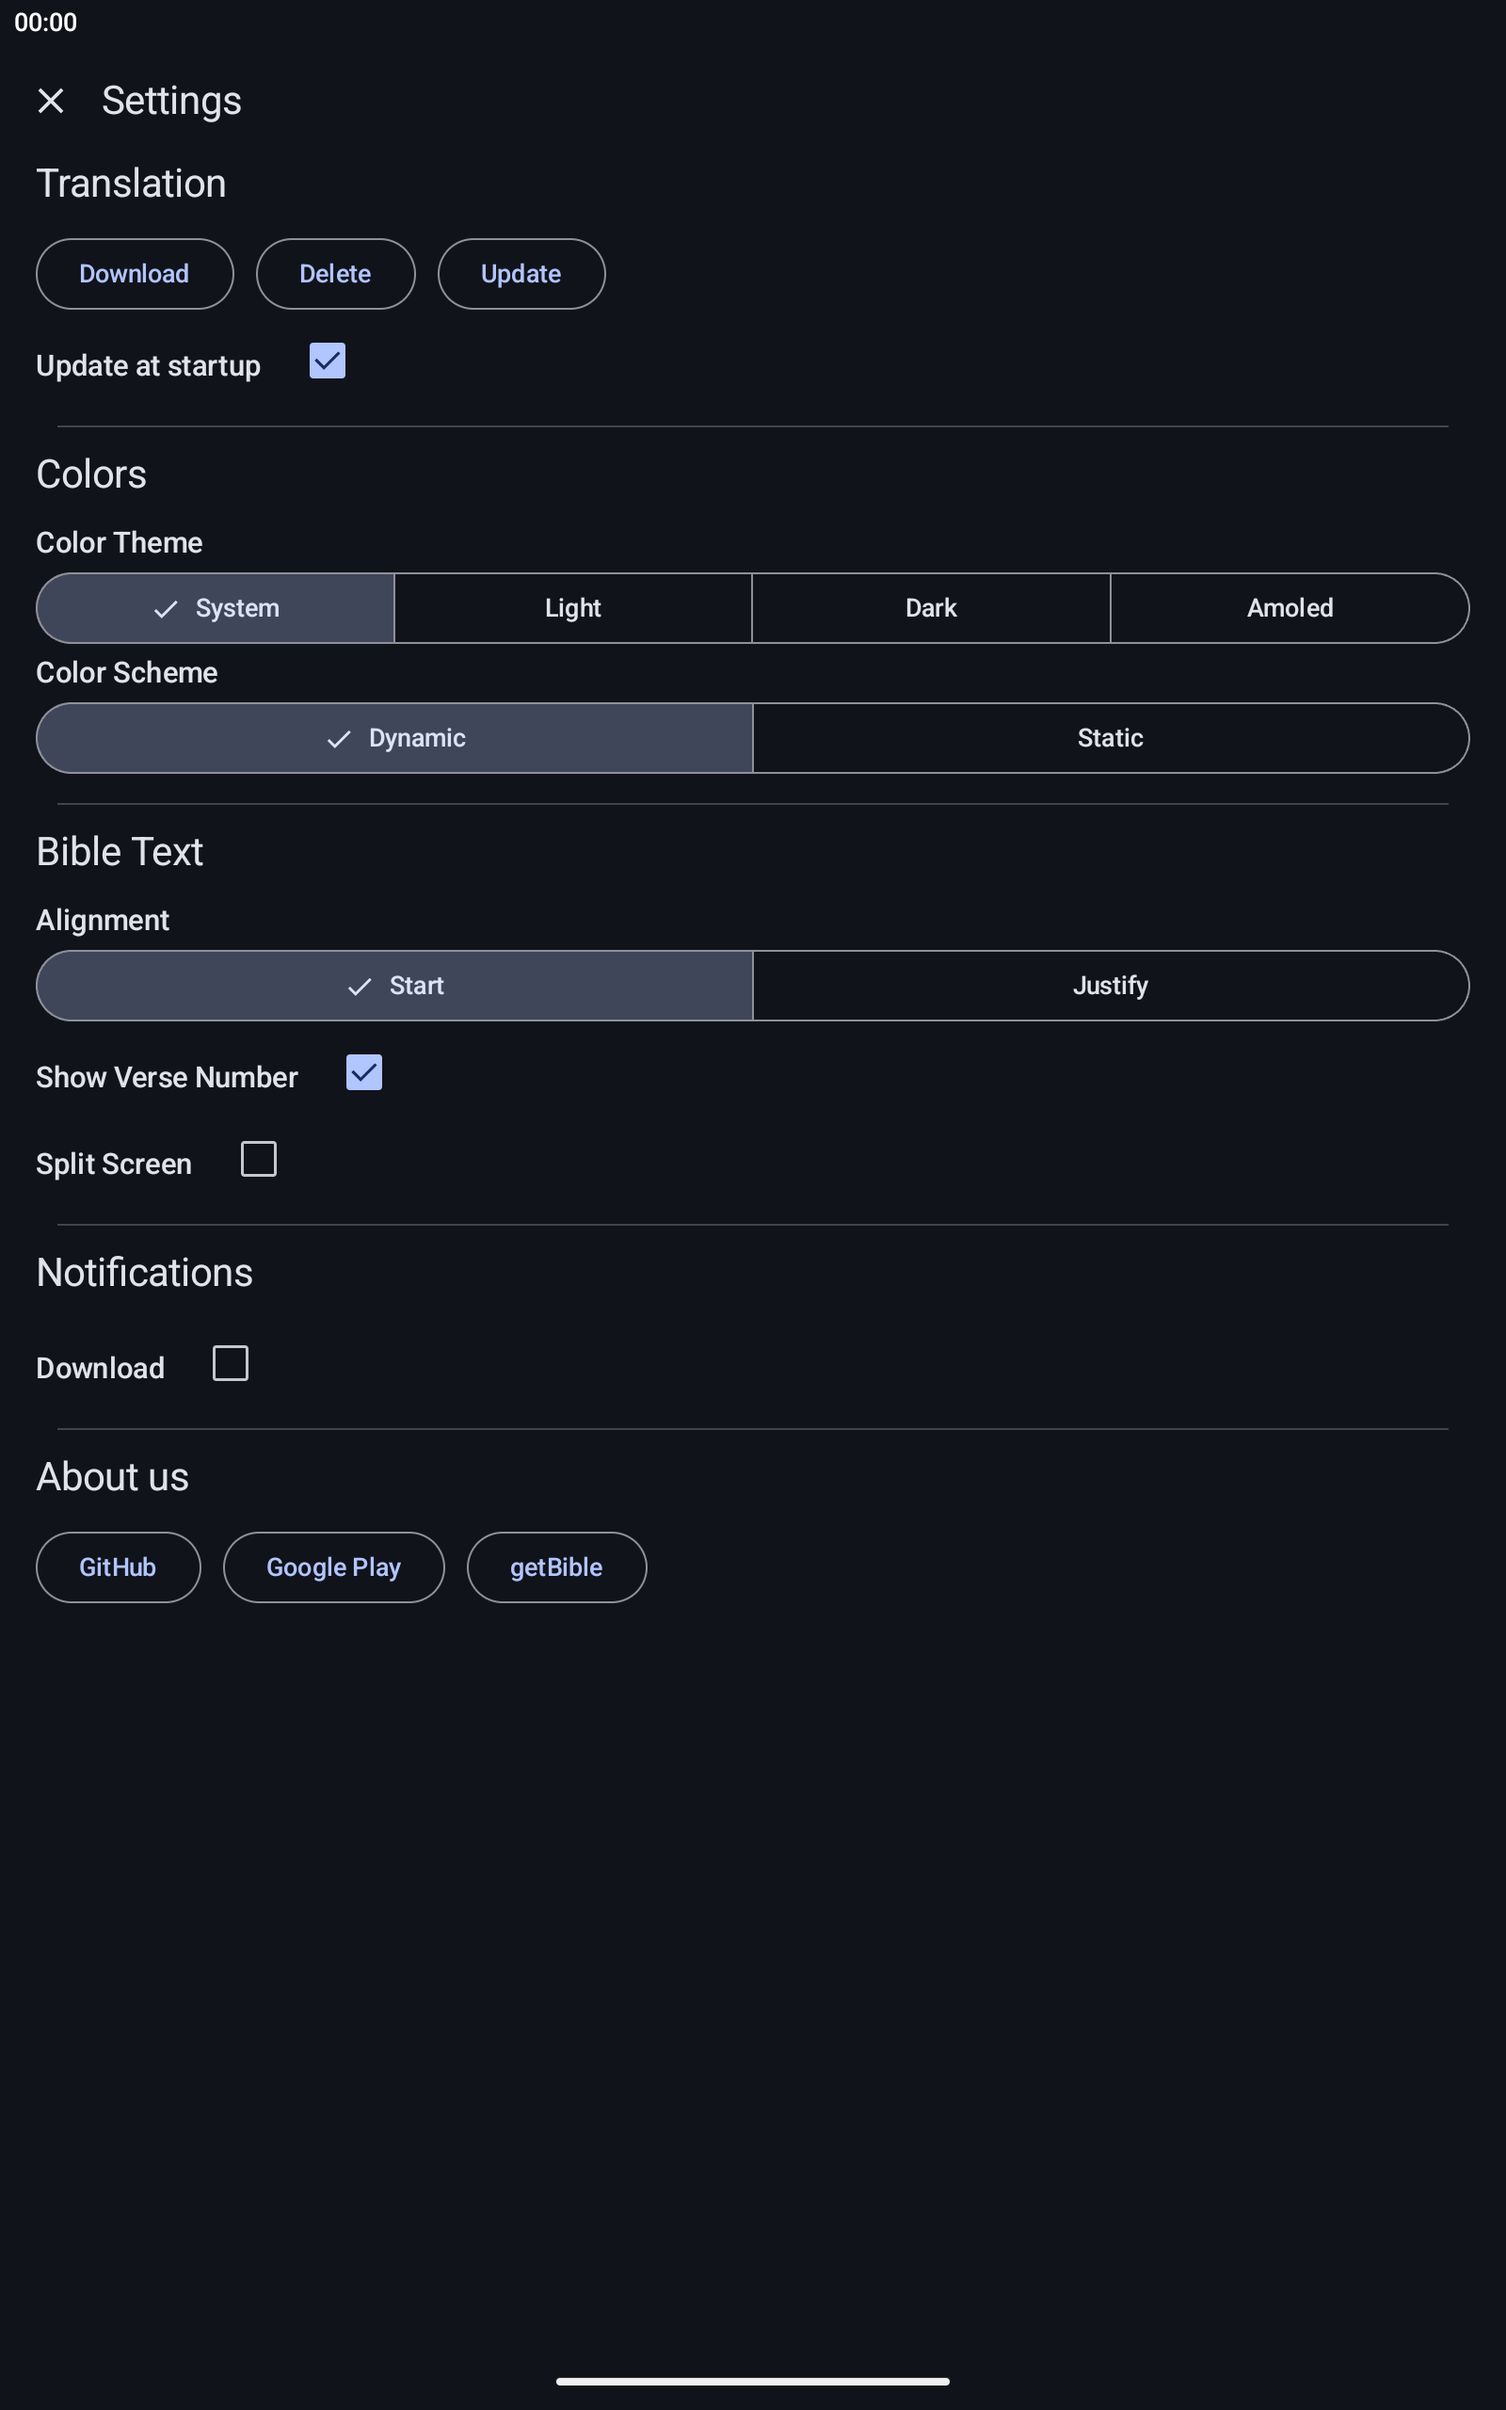
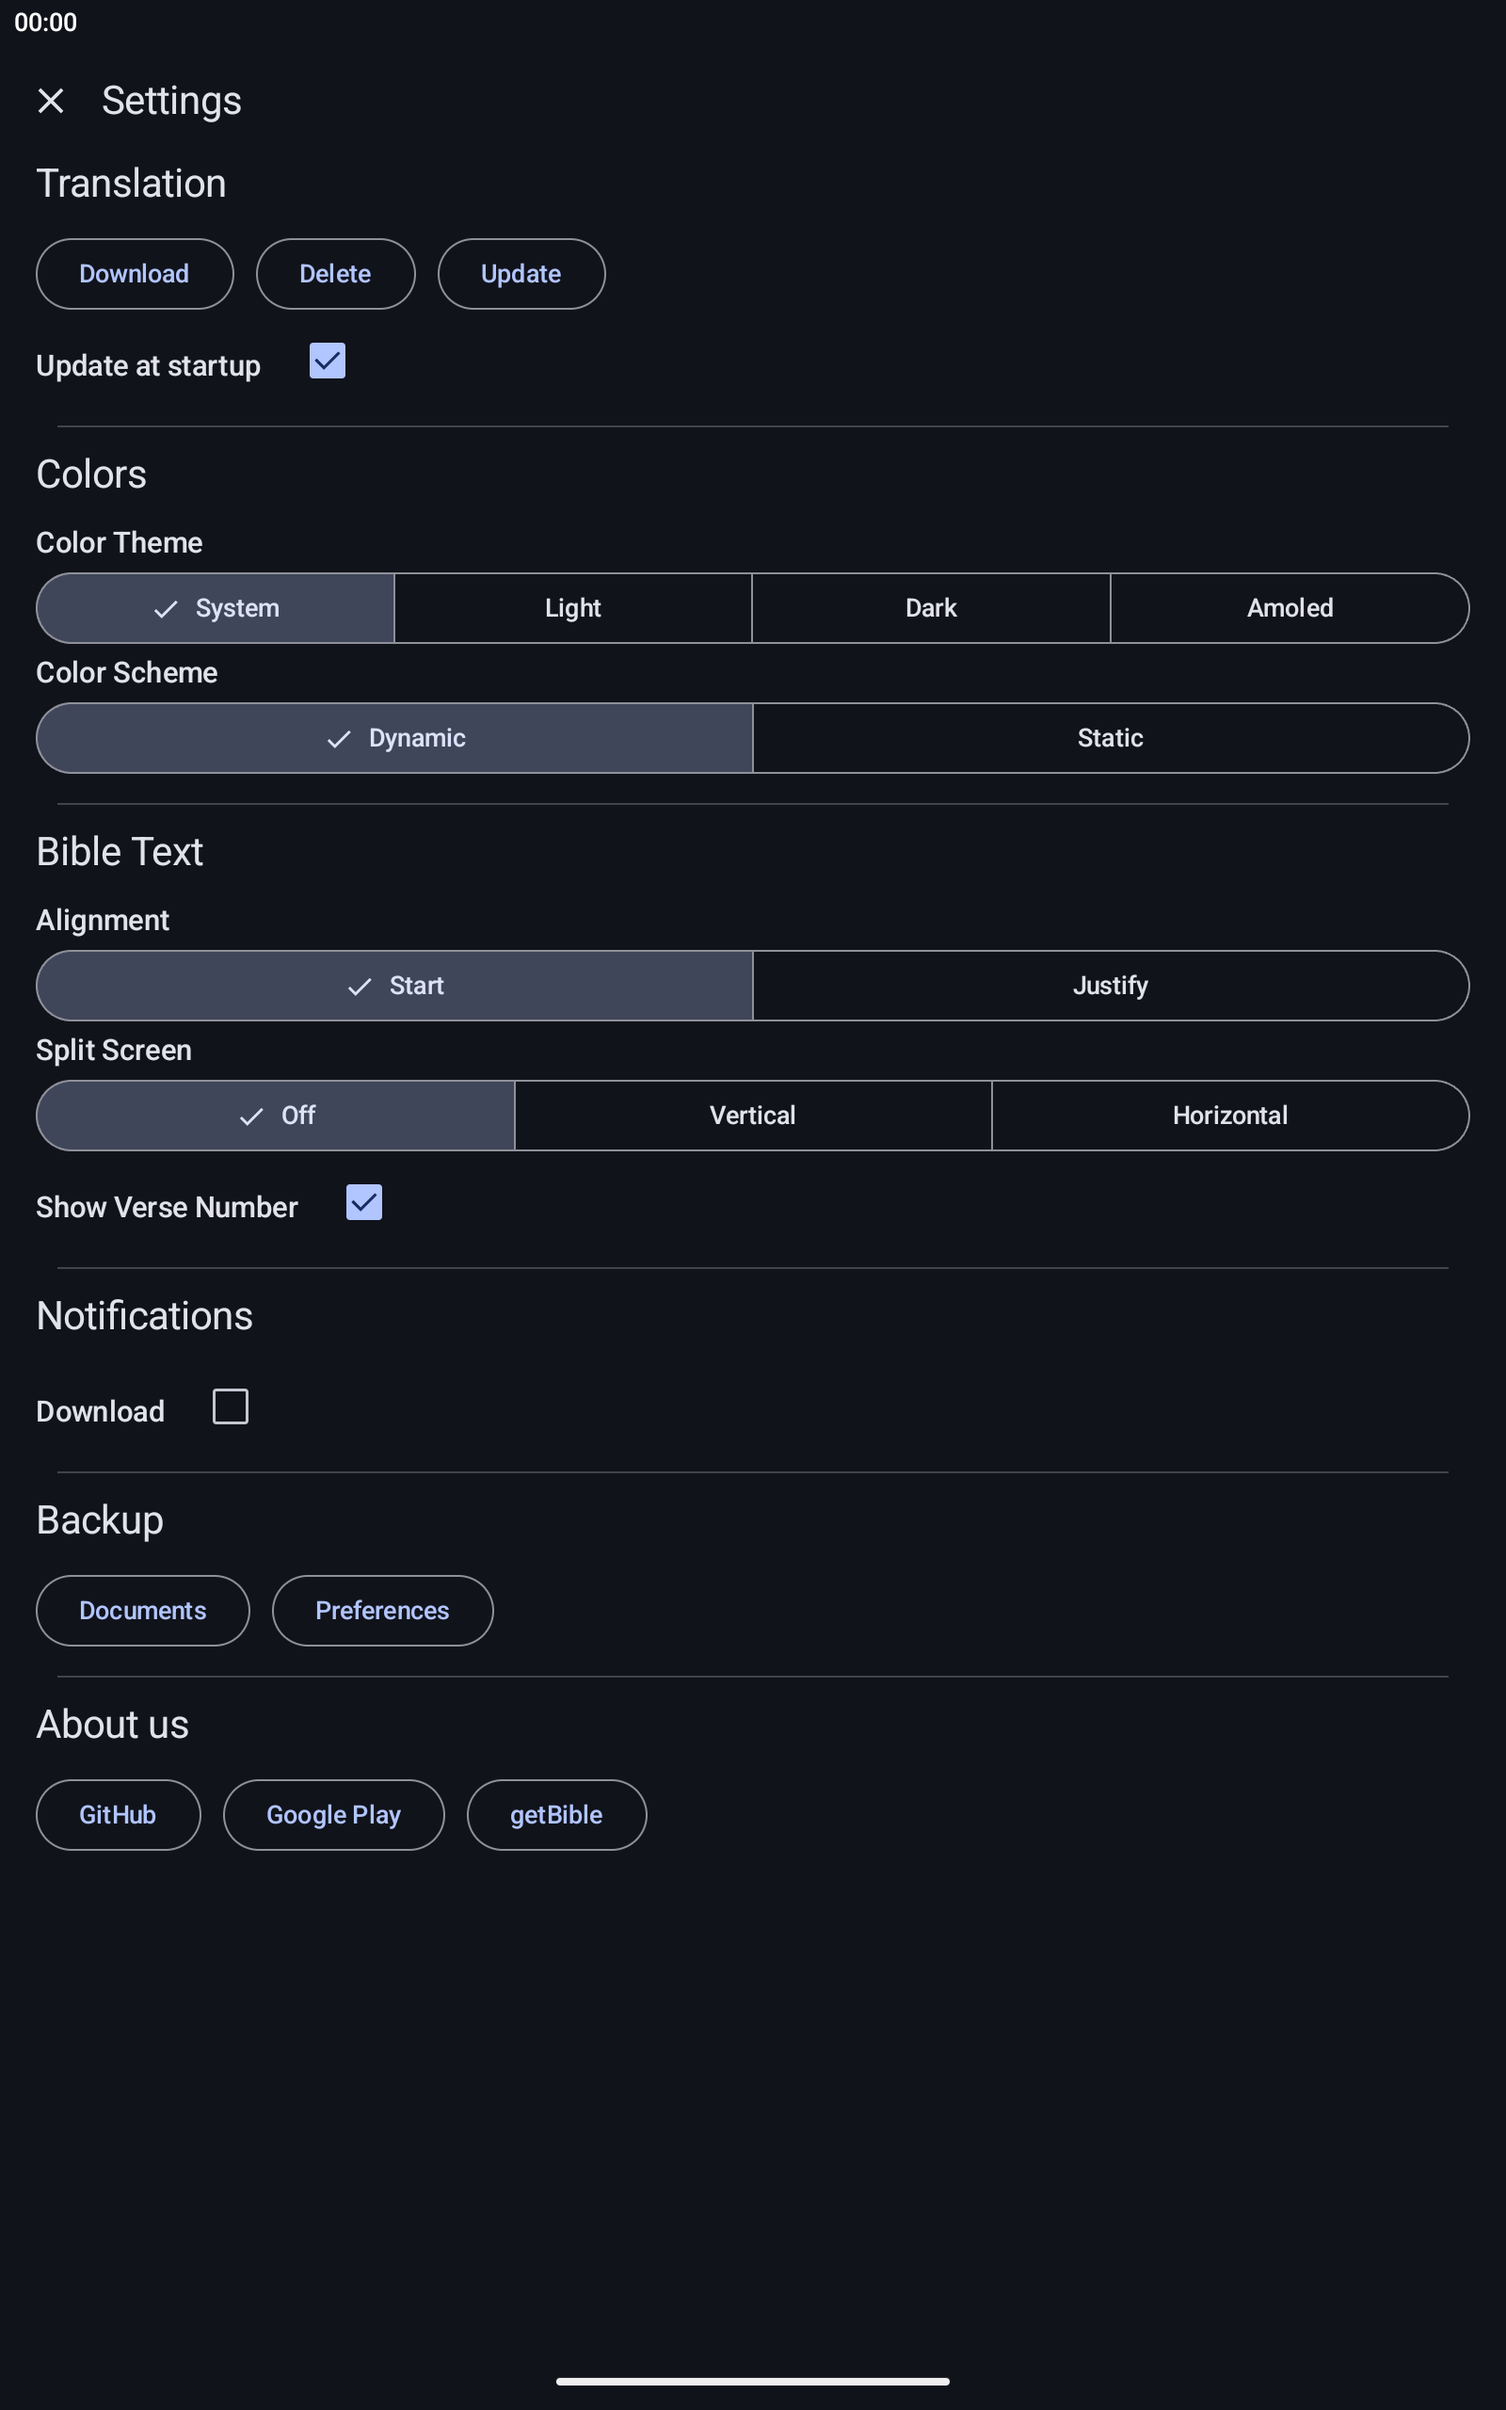
chore: bump to 1.7.0

diff --git a/CHANGELOG.md b/CHANGELOG.md
@@ -2,12 +2,47 @@
 
 All notable changes to this project will be documented in this file.
 
+## [1.7.0] - 2025-03-24
+
+### 🚀 Features
+
+- *(selection)* Show translation information
+- Backup data
+- Add horizontal split screen
+- Restore user backup
+- Add previous/next chapter buttons to ReadScreen
+
+### 🐛 Bug Fixes
+
+- Return to download translation screen when no translation found
+
+### 📚 Documentation
+
+- *(license)* Bump copyright date
+
+### ⚡ Performance
+
+- Improve translation information interface
+
+### 🎨 Styling
+
+- Reformat and cleanup
+- Reformat
+
+### ⚙ Miscellaneous Tasks
+
+- Use ktx functions
+
 ## [1.6.1] - 2025-03-11
 
 ### 📚 Documentation
 
 - *(strings)* Add PT-BR (#37)
 - *(strings)* Make some keys untranslatable
+
+### ⚙ Miscellaneous Tasks
+
+- Bump to 1.6.1
 
 ## [1.6.0] - 2025-02-25
 
